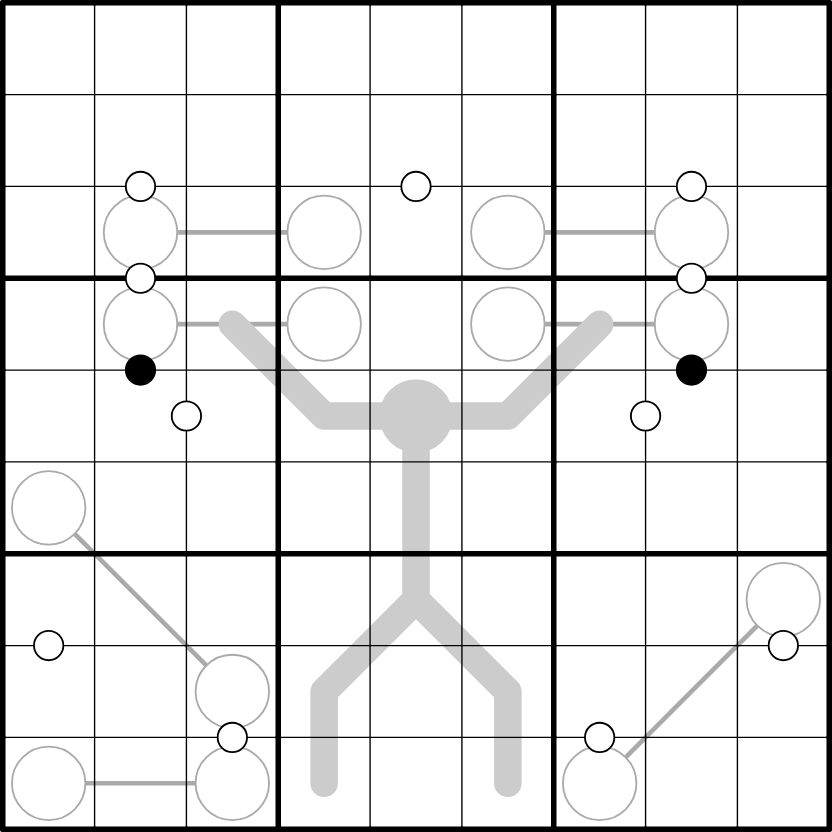
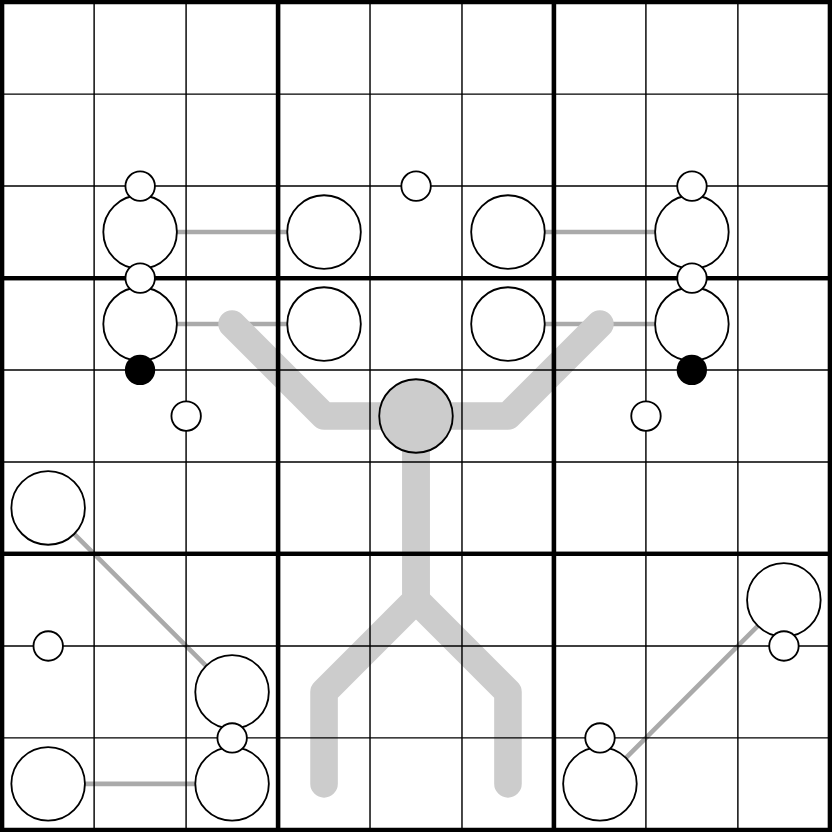
Updated image

diff --git a/_layouts/puzzle.html b/_layouts/puzzle.html
@@ -1,50 +1,45 @@
 ---
 layout: default
 ---
-<head>
-  <script>  
+<script>
     const urlParams = new URLSearchParams(window.location.search);
     if (urlParams.has("play"))
       window.location.href = "{{ page.sudokupad_url | relative_url }}";
-  </script>
-  <link rel="stylesheet" href="{{ '/assets/css/style.css' | relative_url }}">
-</head>
+</script>
 
-<body>
-  <style>
-    .rule p {
-      display: inline;
-    }
-  </style>
+<style>
+  .rule p {
+    display: inline;
+  }
+</style>
 
-  <article class="project-detail">
-    <h1>{{ page.title }}</h1>
-    {% if page.creation_date %}
-    <p><time datetime="{{ page.creation_date }}">{{ page.creation_date | date: "%-d %B %Y" }}</time></p>
-    {% endif %}
-    <div style="display: flex; flex-wrap: wrap; gap: 20px; align-items: flex-start;">
-      <div style="flex: 1 1 300px; max-width: 416px;">
-        <img src="{{ page.slug | prepend: '/assets/images/' | append: '.png' | relative_url }}" style="width: 100%; height: auto; display: block;" alt="{{ page.title }}" />
-      </div>
-    
-      <div style="flex: 2 1 300px; min-width: 0;">
-        {% if page.rules %}
-          <h2>Rules:</h2>
-          <ul>
-          {% for rule in page.rules %}
-            <span class="rule">
-              <li><strong>{{ rule.name }}:</strong> {{ rule.desc | markdownify }}</li>
-            </span>
-          {% endfor %}
-          </ul>
-        {% endif %}
-        <p>Play it online in <a id="puzzle-link" href="{{ page.sudokupad_url | relative_url }}">SudokuPad</a>.</p>
-        {% if page.content %}
-        <div class="content">
-          {{ content }}
-        </div>
-        {% endif %}
-      </div>
+<article class="project-detail">
+  <h1>{{ page.title }}</h1>
+  {% if page.creation_date %}
+  <p><time datetime="{{ page.creation_date }}">{{ page.creation_date | date: "%-d %B %Y" }}</time></p>
+  {% endif %}
+  <div style="display: flex; flex-wrap: wrap; gap: 20px; align-items: flex-start;">
+    <div style="flex: 1 1 300px; max-width: 416px;">
+      <img src="{{ page.slug | prepend: '/assets/images/' | append: '.png' | relative_url }}" style="width: 100%; height: auto; display: block;" alt="{{ page.title }}" />
     </div>
-  </article>
-</body>
+  
+    <div style="flex: 2 1 300px; min-width: 0;">
+      {% if page.rules %}
+        <h2>Rules:</h2>
+        <ul>
+        {% for rule in page.rules %}
+          <span class="rule">
+            <li><strong>{{ rule.name }}:</strong> {{ rule.desc | markdownify }}</li>
+          </span>
+        {% endfor %}
+        </ul>
+      {% endif %}
+      <p>Play it online in <a id="puzzle-link" href="{{ page.sudokupad_url | relative_url }}">SudokuPad</a>.</p>
+      {% if page.content %}
+      <div class="content">
+        {{ content }}
+      </div>
+      {% endif %}
+    </div>
+  </div>
+</article>
